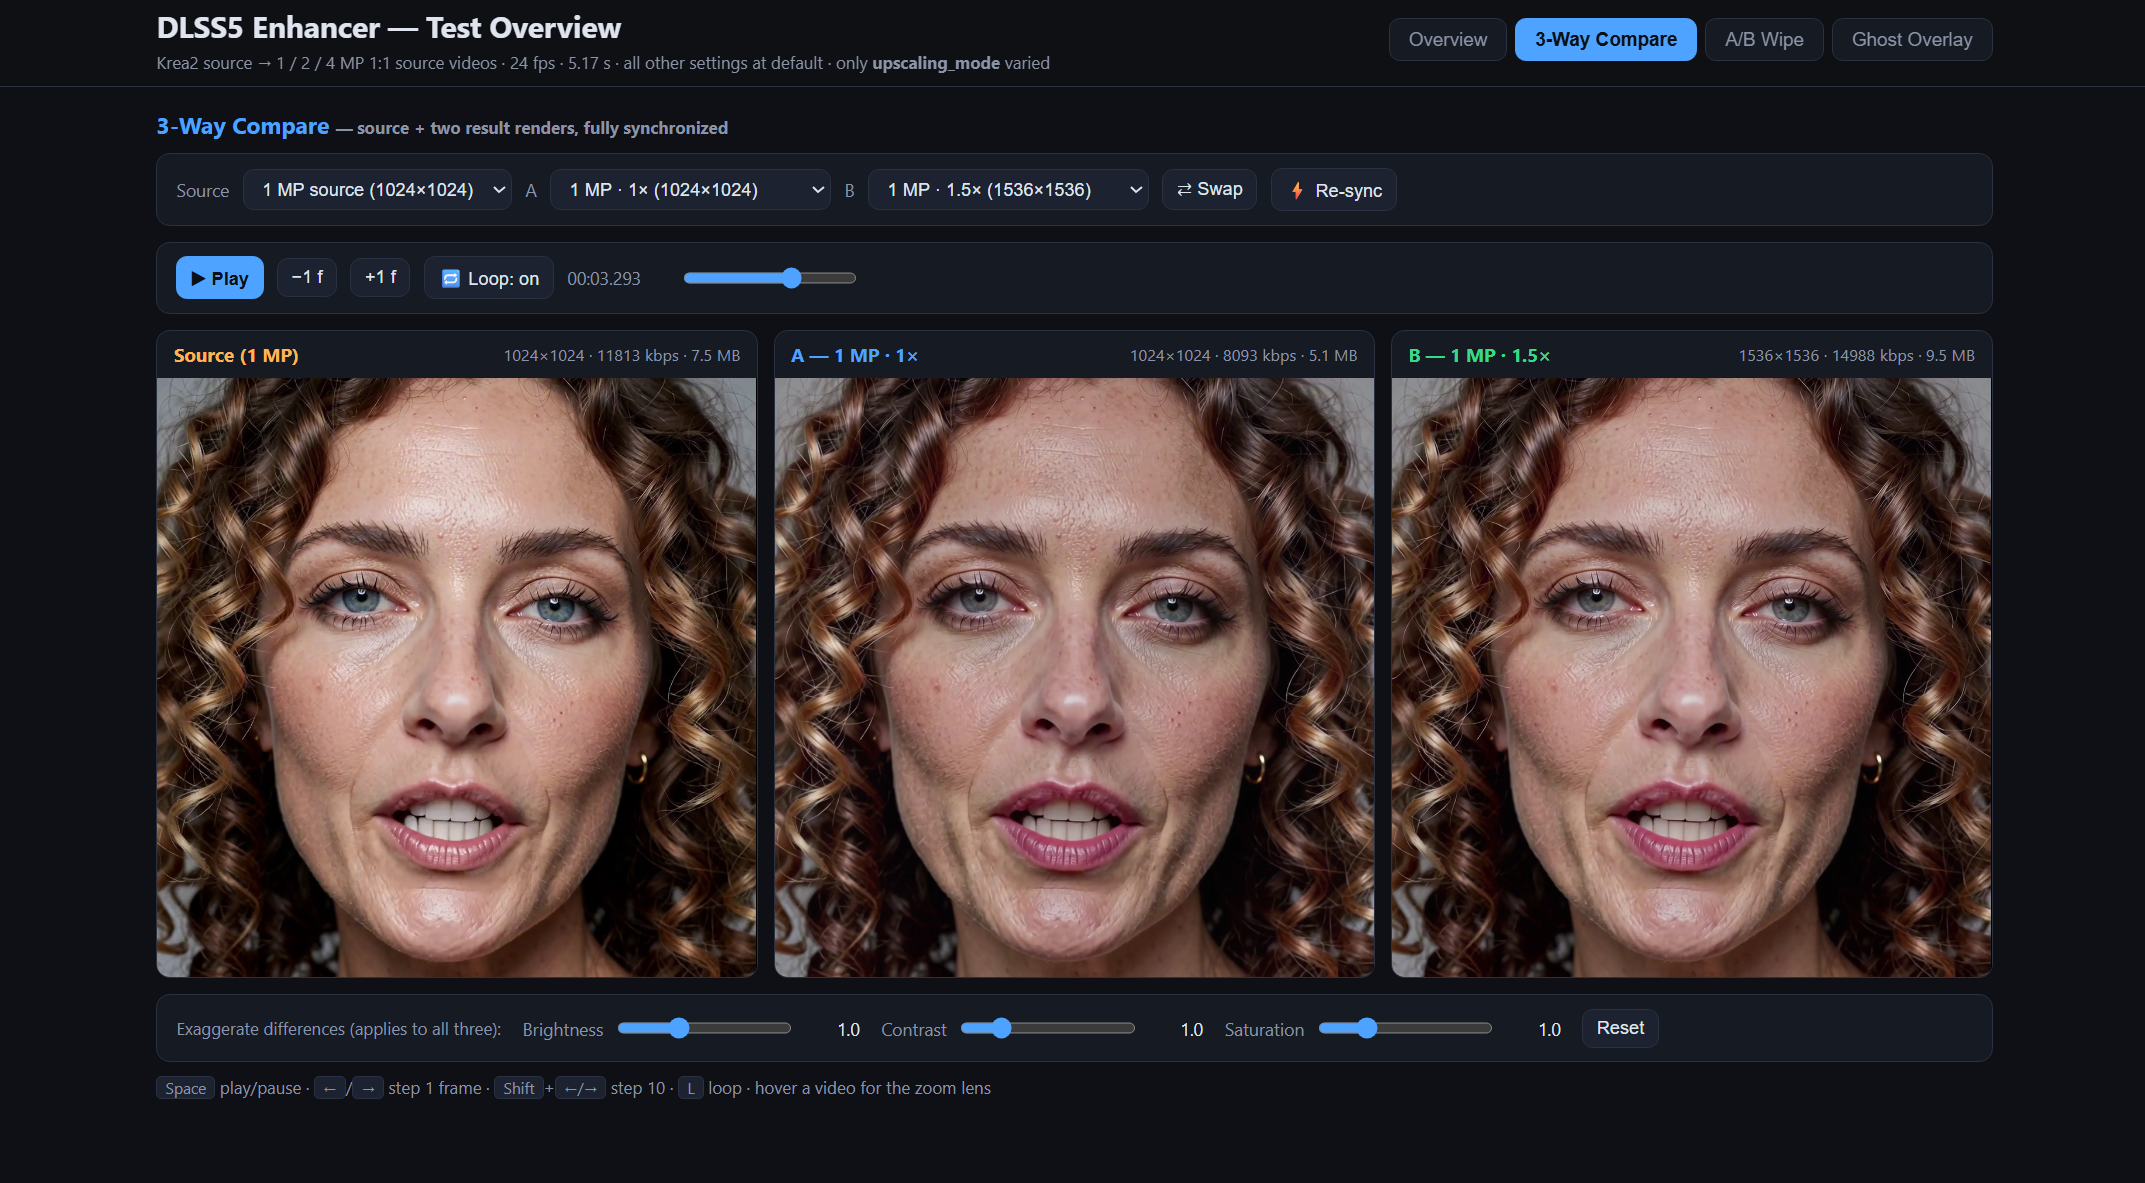
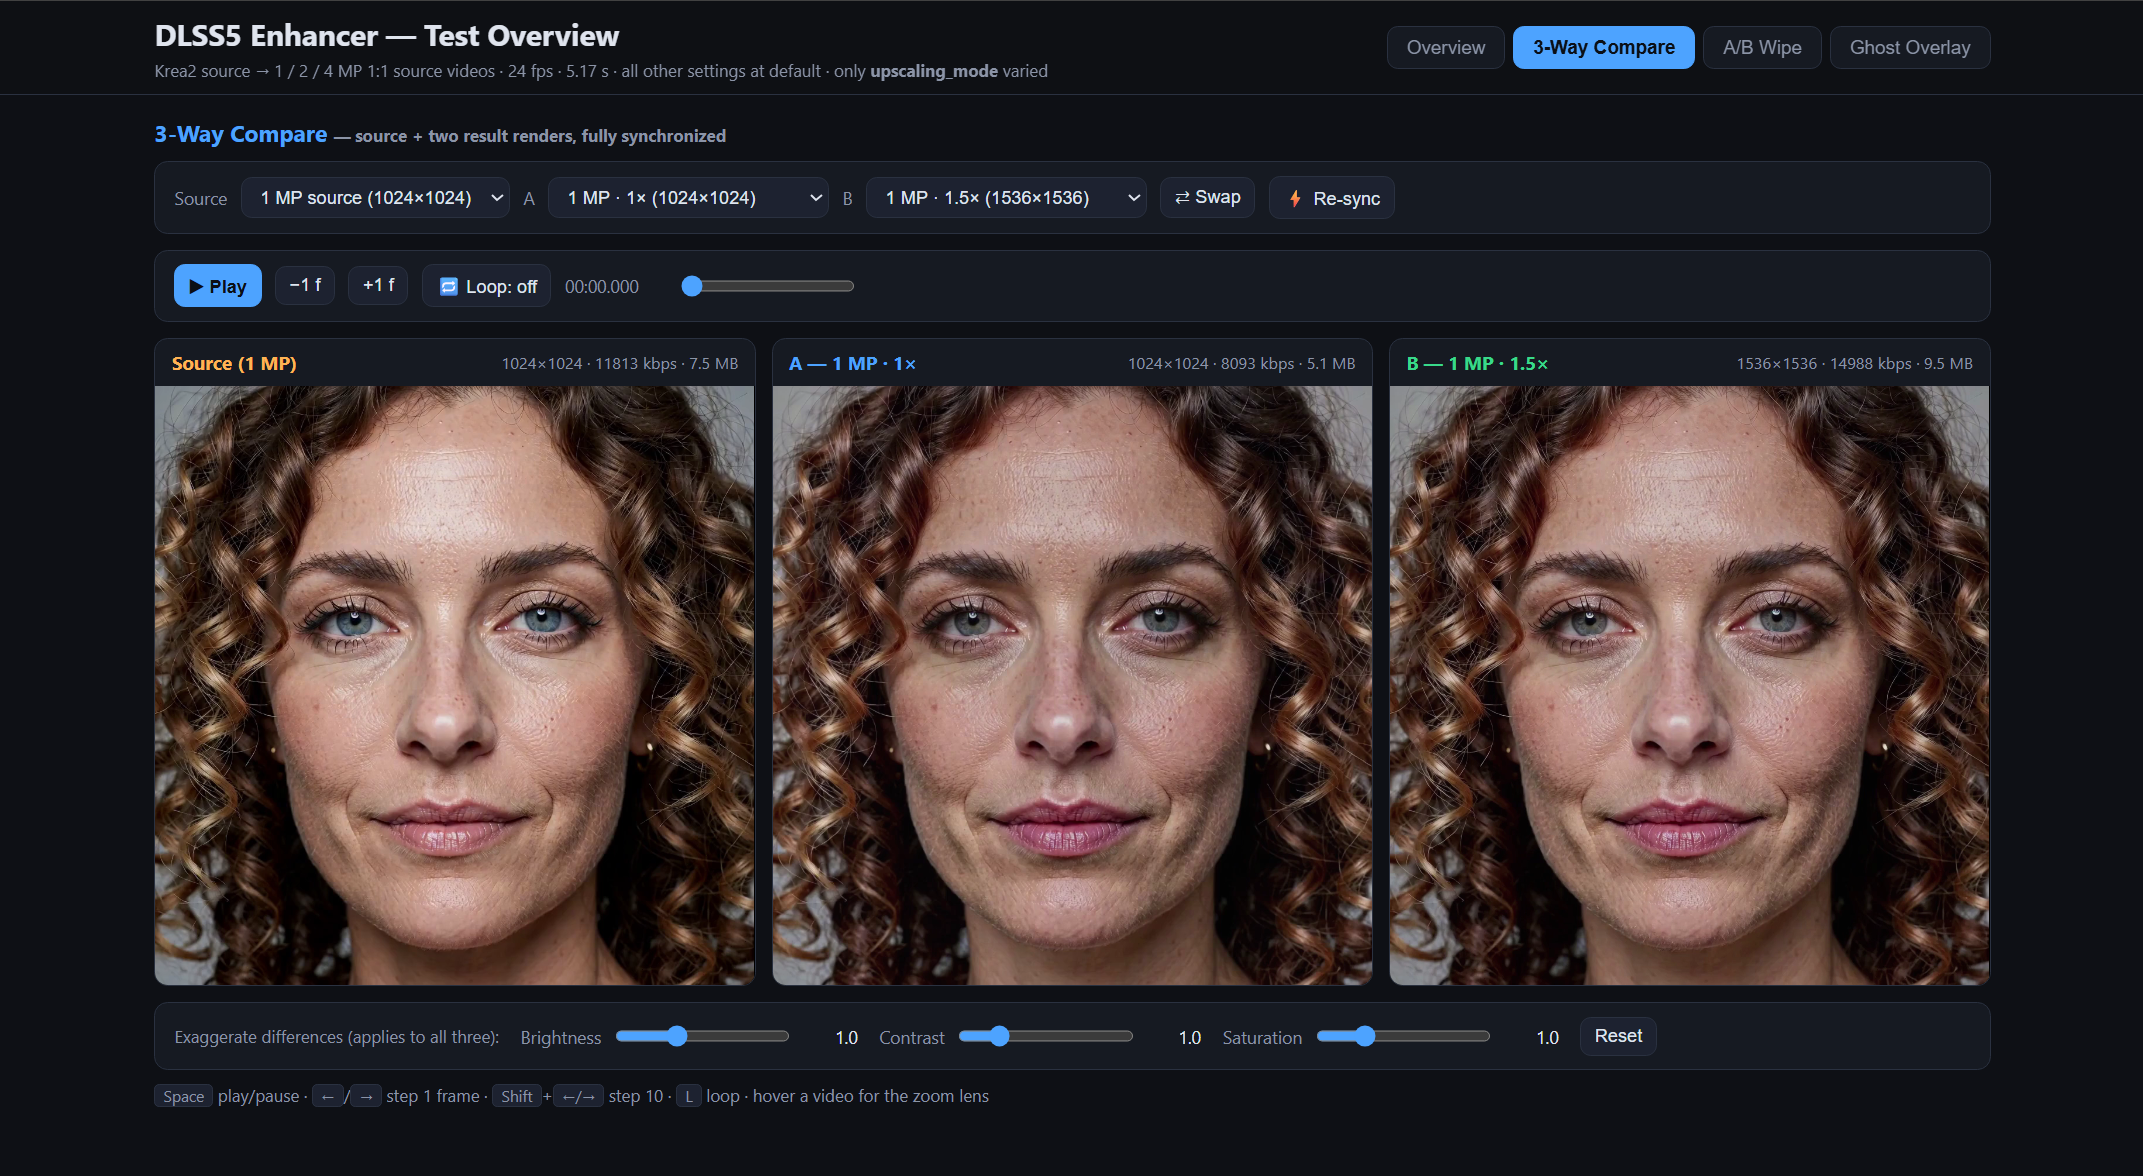
Replace all tab screenshots with fresh captures; add Ghost Overlay screenshot

diff --git a/README.md b/README.md
@@ -100,6 +100,8 @@ renders (broken/over-limit renders are excluded) — labeled clearly, e.g.
 `2 MP source (1440×1440)` or `2 MP · 3× (4320×4320)`. Motion, ghosting,
 and structural differences show up as doubling. Swap base/ghost to invert.
 
+![Ghost Overlay tab](screenshot-ghost-overlay.png)
+
 ## Keyboard shortcuts (compare / wipe / ghost tabs)
 
 | Key | Action |
@@ -131,6 +133,7 @@ and structural differences show up as doubling. Swap base/ghost to invert.
 | `screenshot-overview.png` | screenshot of the page (Overview tab) |
 | `screenshot-3way-compare.png` | screenshot of the 3-Way Compare tab |
 | `screenshot-ab-wipe.png` | screenshot of the A/B Wipe tab |
+| `screenshot-ghost-overlay.png` | screenshot of the Ghost Overlay tab |
 | `<mp> source.mp4` | the 3 source videos (1mp / 2mp / 4mp) |
 | `<mp> DLSS5 <factor>x defaults.mp4` | the 13 valid test result renders (+ the broken 4mp 2x file) |
 | `README.md` | this manual |
